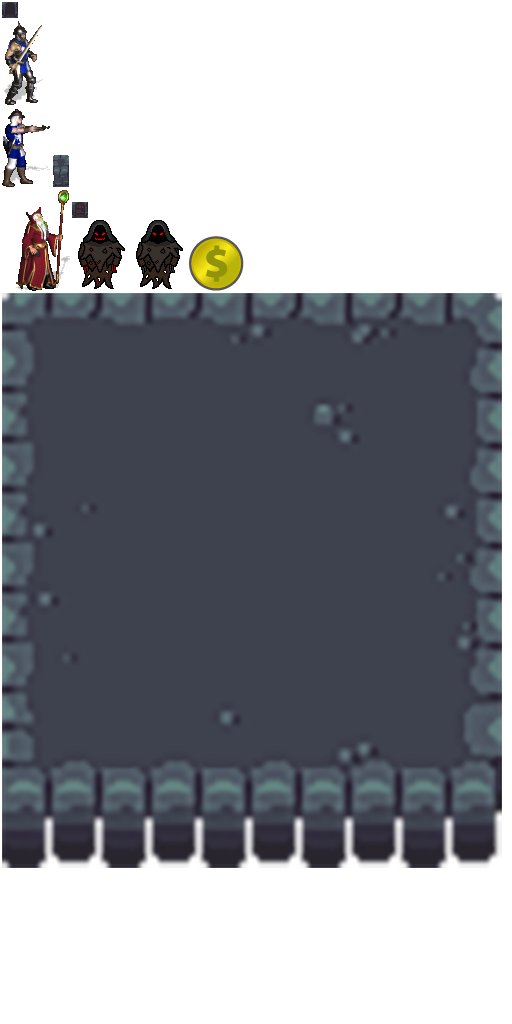
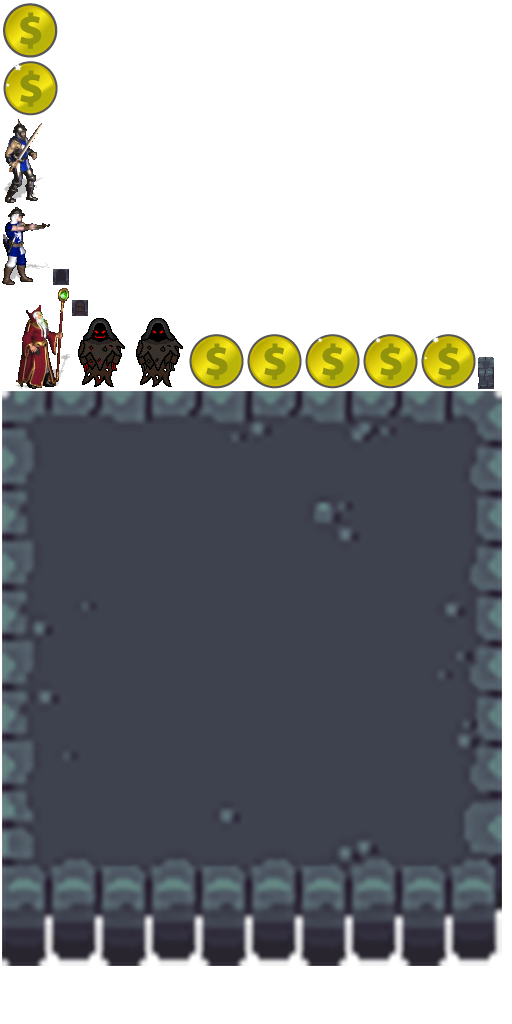
Well something is there

diff --git a/core/src/com/mygdx/game/objects/AbstractGameObject.java b/core/src/com/mygdx/game/objects/AbstractGameObject.java
@@ -1,10 +1,12 @@
 package com.mygdx.game.objects;
 
 import com.badlogic.gdx.graphics.g2d.SpriteBatch;
+import com.badlogic.gdx.graphics.g2d.TextureRegion;
 import com.badlogic.gdx.math.MathUtils;
 import com.badlogic.gdx.math.Rectangle;
 import com.badlogic.gdx.math.Vector2;
 import com.badlogic.gdx.physics.box2d.Body;
+import com.badlogic.gdx.graphics.g2d.Animation;
 
 /**
  * @author Gabe Werick
@@ -26,6 +28,9 @@ public abstract class AbstractGameObject {
 	public Rectangle bounds;
 
 	public Body body;
+	
+	public float stateTime;
+	public Animation<TextureRegion> animation;
 
 	/**
 	 * Builds the game object
@@ -42,6 +47,16 @@ public abstract class AbstractGameObject {
 		acceleration = new Vector2();
 		bounds = new Rectangle();
 	}
+	
+	/**
+	 * Does the animation stuff
+	 * @param animation
+	 */
+	public void setAnimation(Animation animation)
+	{
+		this.animation = animation;
+		stateTime = 0;
+	}
 
 	/**
 	 * Updates the object based on the timer
@@ -49,6 +64,7 @@ public abstract class AbstractGameObject {
 	 * @param deltaTime
 	 */
 	public void update(float deltaTime) {
+		stateTime += deltaTime;
 		position.set(body.getPosition());
 		rotation = body.getAngle() * MathUtils.radiansToDegrees;
 	}

diff --git a/core/src/com/mygdx/game/world/Assets.java b/core/src/com/mygdx/game/world/Assets.java
@@ -6,9 +6,12 @@ import com.badlogic.gdx.assets.AssetErrorListener;
 import com.badlogic.gdx.assets.AssetManager;
 import com.badlogic.gdx.audio.Music;
 import com.badlogic.gdx.audio.Sound;
+import com.badlogic.gdx.graphics.g2d.Animation;
 import com.badlogic.gdx.graphics.g2d.BitmapFont;
 import com.badlogic.gdx.graphics.g2d.TextureAtlas;
 import com.badlogic.gdx.graphics.g2d.TextureAtlas.AtlasRegion;
+import com.badlogic.gdx.graphics.g2d.TextureRegion;
+import com.badlogic.gdx.utils.Array;
 import com.badlogic.gdx.utils.Disposable;
 import com.mygdx.game.util.Constants;
 
@@ -151,9 +154,19 @@ public class Assets implements Disposable, AssetErrorListener {
 
 	public class AssetCoin {
 		public final AtlasRegion coin;
+		public final Animation<TextureRegion> animCoin;
 
 		public AssetCoin(TextureAtlas atlas) {
 			coin = atlas.findRegion("item_gold_coin");
+			
+			//Animate the coin
+			Array<AtlasRegion> regions = atlas.findRegions("anim_gold_coin");
+			AtlasRegion region = regions.first();
+			for(int i = 0; i < 10; i++)
+			{
+				regions.insert(0, region);
+			}
+			animCoin = new Animation<TextureRegion>(1.0f/20.0f, regions, Animation.PlayMode.LOOP_PINGPONG);
 		}
 	}
 

diff --git a/core/src/com/mygdx/game/objects/Coin.java b/core/src/com/mygdx/game/objects/Coin.java
@@ -3,6 +3,7 @@ package com.mygdx.game.objects;
 import com.badlogic.gdx.graphics.g2d.SpriteBatch;
 import com.badlogic.gdx.graphics.g2d.TextureRegion;
 import com.mygdx.game.world.Assets;
+import com.badlogic.gdx.math.MathUtils;
 
 /**
  * @author Gabe Werick
@@ -31,6 +32,9 @@ public class Coin extends AbstractGameObject {
 	private void init() {
 		dimension.set(size, size);
 		origin.set(dimension.x / 2, dimension.y / 2);
+		
+		setAnimation(Assets.instance.coin.animCoin);
+		stateTime = MathUtils.random(0.0f, 1.0f);
 
 		coin = Assets.instance.coin.coin;
 	}
@@ -53,7 +57,7 @@ public class Coin extends AbstractGameObject {
 	private void drawCoin(SpriteBatch batch) {
 		TextureRegion reg = null;
 
-		reg = coin;
+		reg = animation.getKeyFrame(stateTime, true);
 		batch.draw(reg.getTexture(), position.x, position.y, origin.x, origin.y, dimension.x, dimension.y, scale.x,
 				scale.y, rotation, reg.getRegionX(), reg.getRegionY(), reg.getRegionWidth(), reg.getRegionHeight(),
 				false, false);
